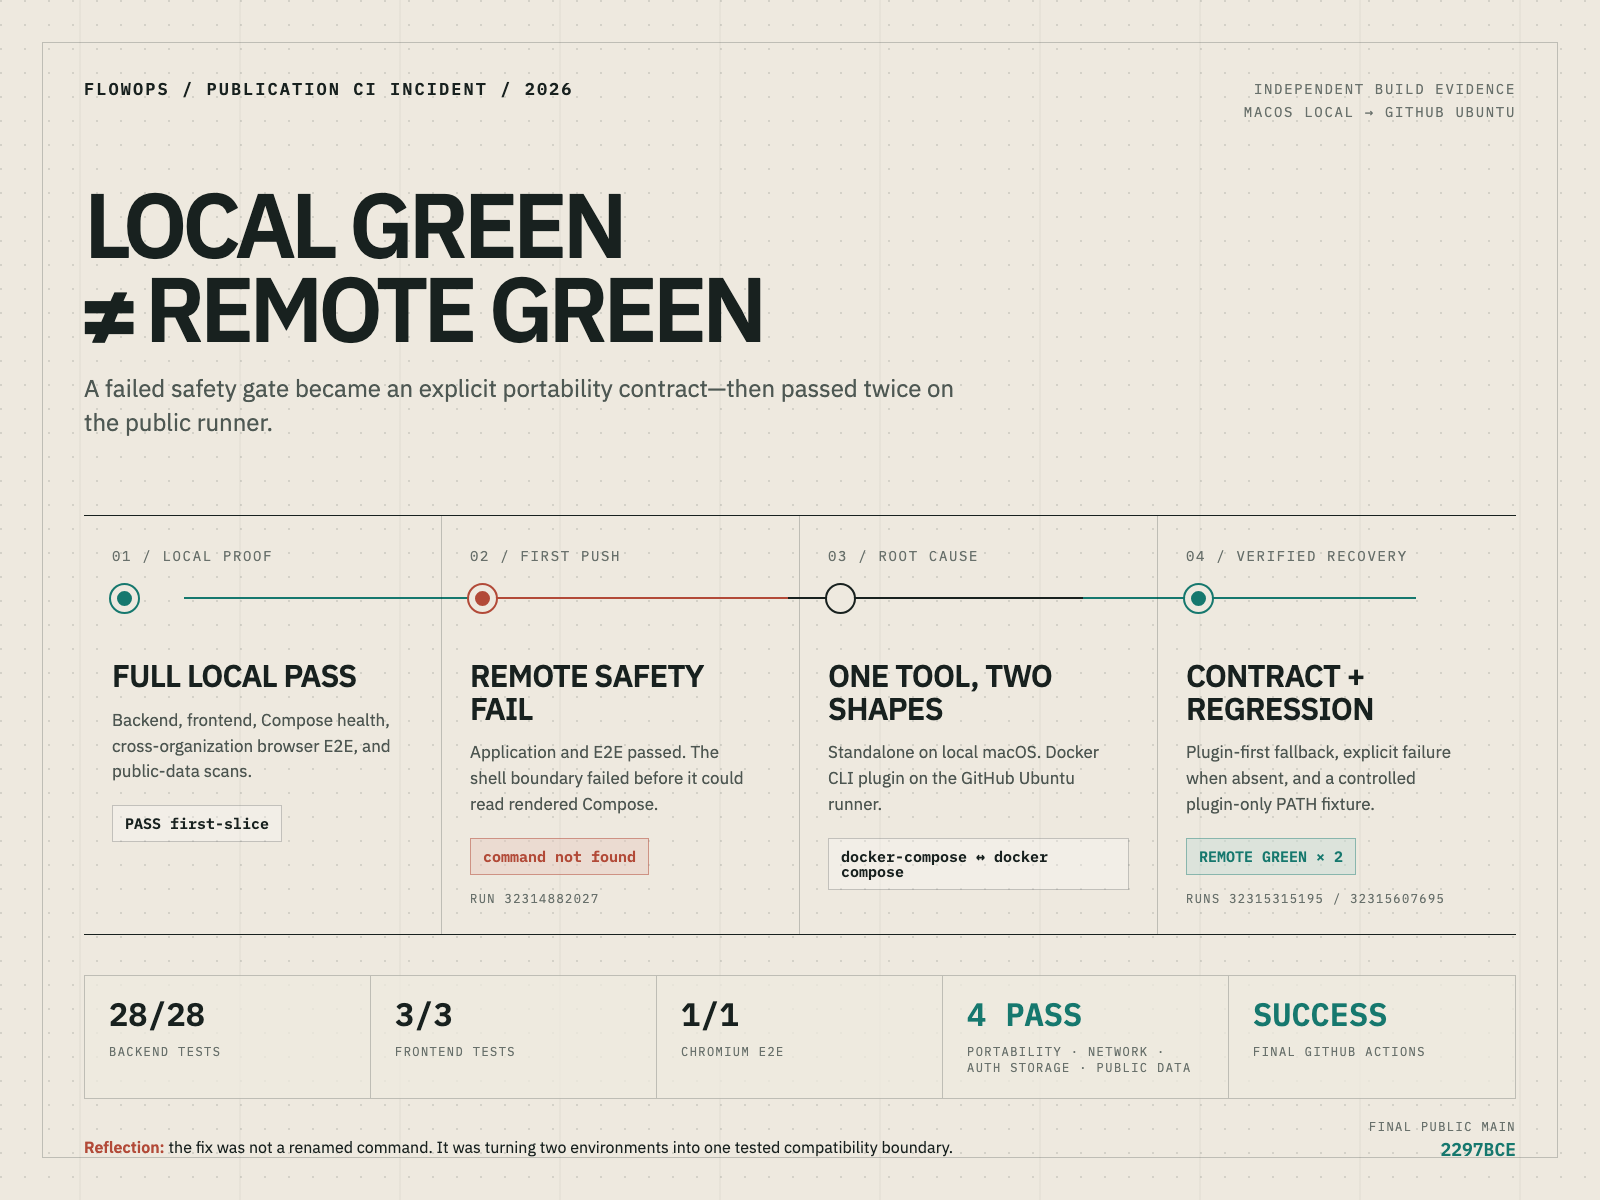
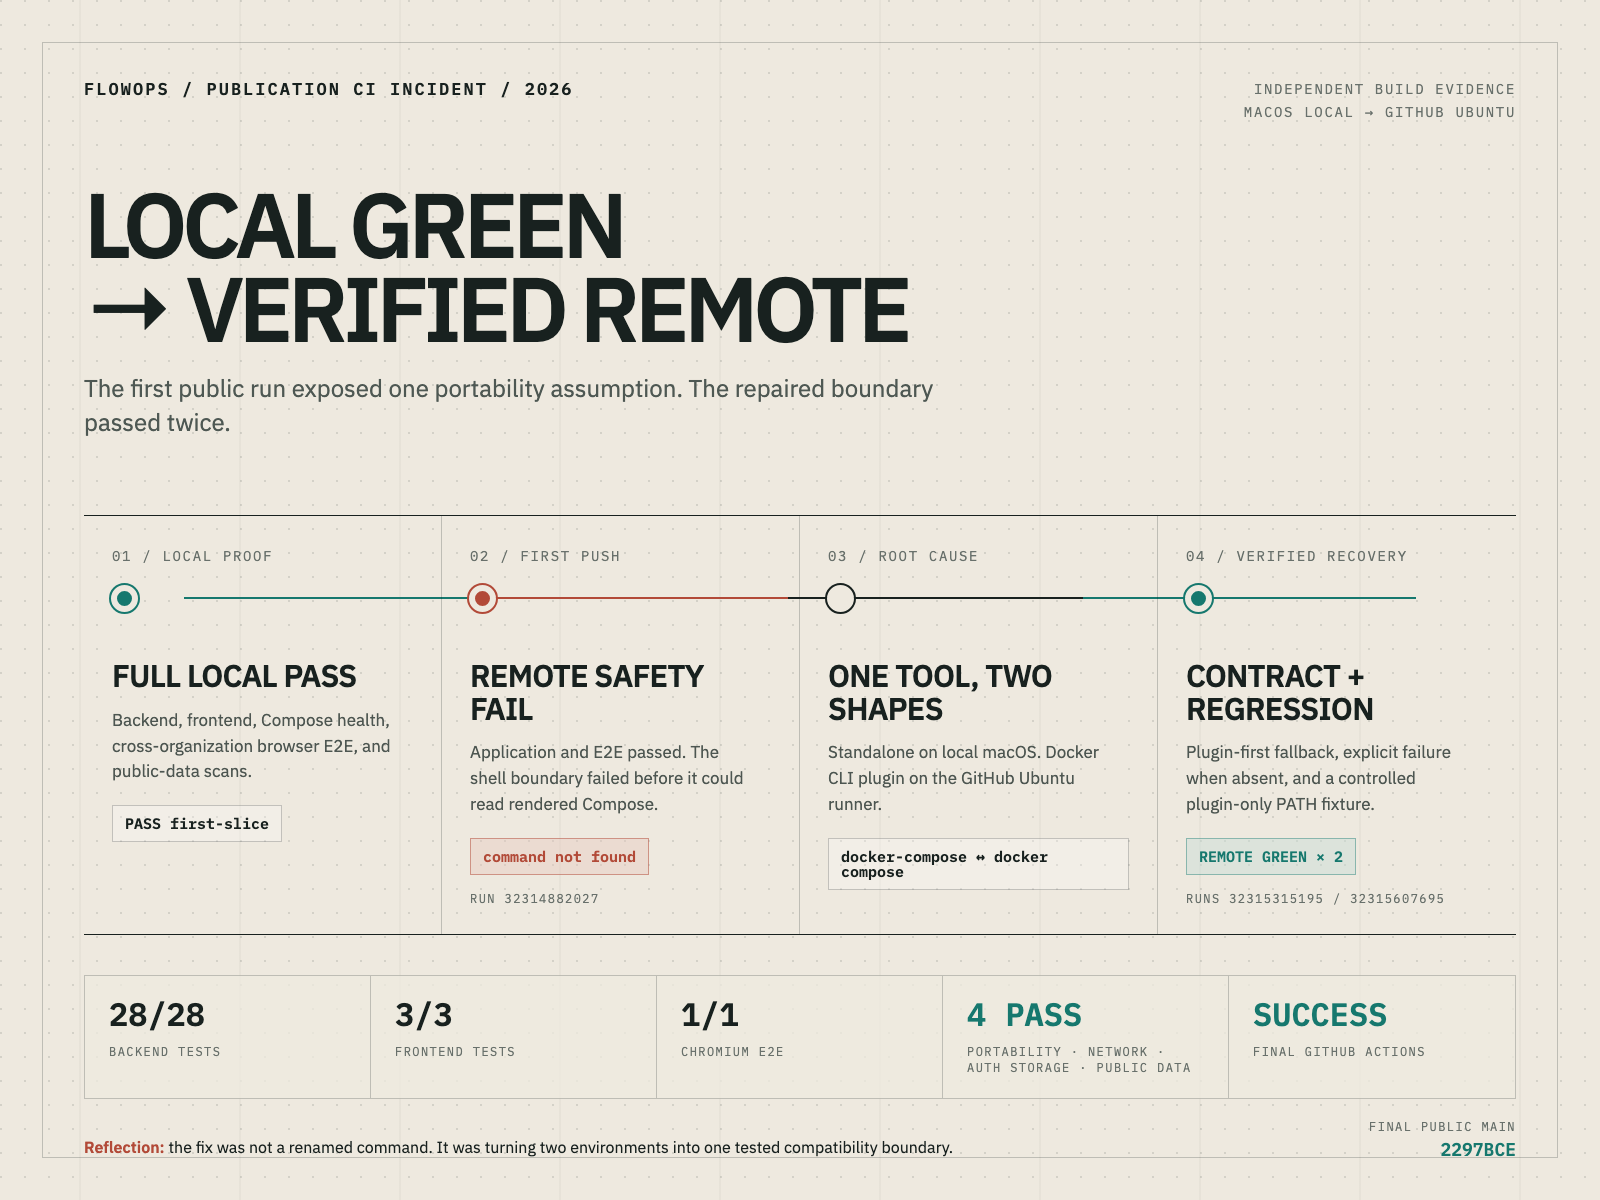
docs: lead CI case with verified outcome

Changed region(s): [[0.0312, 0.2158, 0.5938, 0.37]]

diff --git a/docs/portfolio/case-study-en.md b/docs/portfolio/case-study-en.md
@@ -10,6 +10,14 @@ The locally verified boundary includes backend integration tests, frontend compo
 
 ## CI portability failure found during publication
 
+| Current status | Result |
+|---|---|
+| Application and browser E2E | Passed from the first remote run |
+| Customer or production impact | None |
+| Failed boundary | CI safety-script command portability |
+| Remote CI after the fix | Two consecutive passes |
+| Public `main` | Green |
+
 ![FlowOps CI recovery timeline](screenshots/flowops-ci-recovery-1600x1200.png)
 
 The first GitHub Actions run failed after the locally green repository was published. Backend tests, frontend verification, Docker startup, and Playwright E2E had already passed on the Ubuntu runner. Only the final public-safety step failed. Its first actionable error was `docker-compose: command not found`: the local Mac used the standalone command, while GitHub exposed Compose as the `docker compose` plugin.

diff --git a/docs/incidents/INC-002-compose-cli-portability.md b/docs/incidents/INC-002-compose-cli-portability.md
@@ -9,6 +9,17 @@
 - 최종 검증 커밋: `2297bce31a1d0fa9820b98378673e78eb4a8003c`
 - 고객·프로덕션 영향: 없음
 
+## 현재 상태
+
+| 구분 | 결과 |
+|---|---|
+| 애플리케이션과 브라우저 E2E | 최초 원격 실행부터 통과 |
+| 최초 실패 지점 | CI 안전 검사 명령 호환성 |
+| 고객·프로덕션 영향 | 없음 |
+| 수정 방식 | Compose CLI 감지 + plugin-only 회귀 테스트 |
+| 수정 후 원격 CI | 2회 연속 성공 |
+| 현재 공개 `main` | 성공 |
+
 ## 상황
 
 FlowOps는 공개 전에 로컬에서 백엔드 테스트, 프런트엔드 검사, Docker Compose, Playwright 조직 격리 E2E, 개인정보 검사를 통과했다. 공개 직전에는 프런트엔드 포트를 `127.0.0.1:4173`으로 제한하고, 렌더링된 Compose 설정이 이 조건을 지키는지 확인하는 `check-local-demo-network.sh`를 추가했다.

diff --git a/README.ko.md b/README.ko.md
@@ -61,6 +61,8 @@ Docker 데모 환경에서만 다음 가상 계정을 설치합니다.
 
 ## 공개 CI 복구 사례
 
+**현재 상태:** 애플리케이션과 브라우저 E2E는 최초 원격 실행부터 통과했고 고객 영향은 없었습니다. 수정된 CI 경계는 두 번 연속 통과했으며 공개 `main`은 성공 상태입니다.
+
 ![FlowOps CI 복구 타임라인](docs/portfolio/screenshots/flowops-ci-recovery-1600x1200.png)
 
 첫 GitHub Actions 실행은 애플리케이션과 브라우저 E2E를 통과한 뒤 Compose 안전 검사에서 실패했습니다. 로컬 macOS와 GitHub Ubuntu가 같은 도구를 서로 다른 명령 형태로 제공한 것이 원인이었습니다. [INC-002](docs/incidents/INC-002-compose-cli-portability.md)에 실패 흐름, 고찰, 기각한 해결안, plugin-only 회귀 테스트와 두 번의 원격 성공을 기록했습니다.

diff --git a/docs/portfolio/case-study-ko.md b/docs/portfolio/case-study-ko.md
@@ -31,6 +31,14 @@
 
 ## 공개 과정에서 발견한 CI 호환성 문제
 
+| 현재 상태 | 결과 |
+|---|---|
+| 애플리케이션·E2E | 최초 원격 실행부터 통과 |
+| 고객·프로덕션 영향 | 없음 |
+| 실패한 경계 | CI 안전 검사 명령 호환성 |
+| 수정 후 원격 CI | 2회 연속 성공 |
+| 공개 `main` | 성공 |
+
 ![FlowOps CI 복구 타임라인](screenshots/flowops-ci-recovery-1600x1200.png)
 
 로컬 전체 검증을 통과한 뒤 GitHub에 공개했지만, 첫 Actions 실행은 마지막 공개 안전 검사에서 실패했습니다. 백엔드·프런트엔드·Docker·Playwright E2E는 원격에서도 이미 통과한 상태였습니다. 실패 로그의 첫 원인은 Ubuntu에 없는 `docker-compose` 명령이었습니다. GitHub 러너는 같은 기능을 `docker compose` 플러그인으로 제공했습니다.

diff --git a/README.md b/README.md
@@ -86,6 +86,8 @@ API failures use `application/problem+json` with a stable `code` and `traceId`. 
 
 ## Publication CI recovery
 
+**Current status:** application and browser E2E passed from the first remote run; customer impact was none; the repaired CI boundary passed twice; public `main` is green.
+
 ![FlowOps CI recovery timeline](docs/portfolio/screenshots/flowops-ci-recovery-1600x1200.png)
 
 The first public GitHub Actions run passed the application and browser E2E but failed in a Compose safety gate because local macOS and the Ubuntu runner exposed the same tool through different command shapes. [INC-002](docs/incidents/INC-002-compose-cli-portability.md) records the failure chain, reflection, rejected fixes, plugin-only regression, and two consecutive remote successes.
